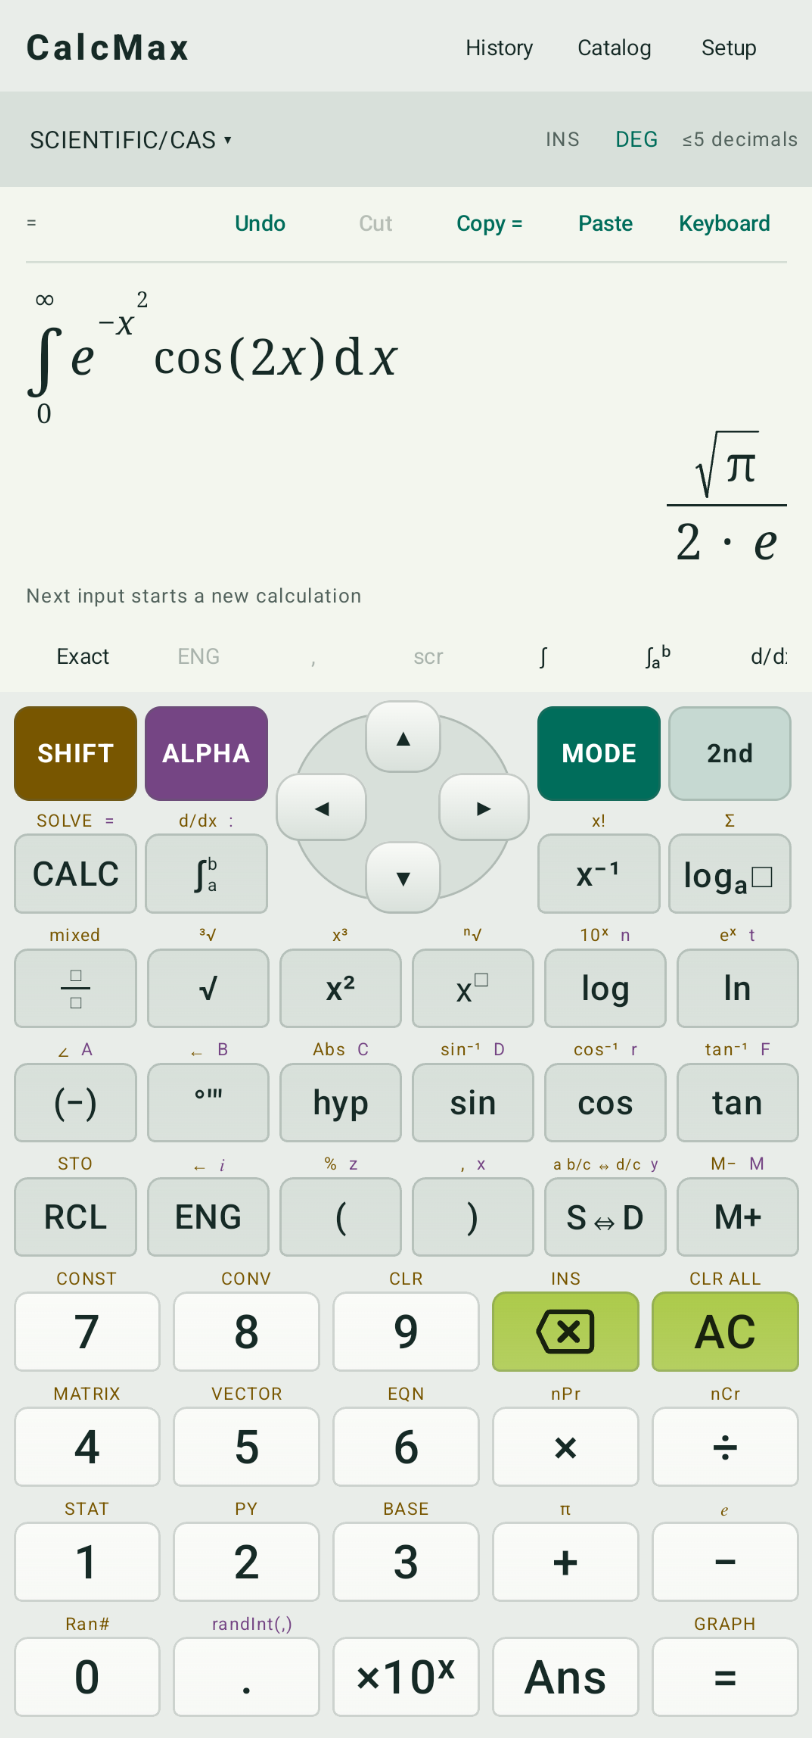
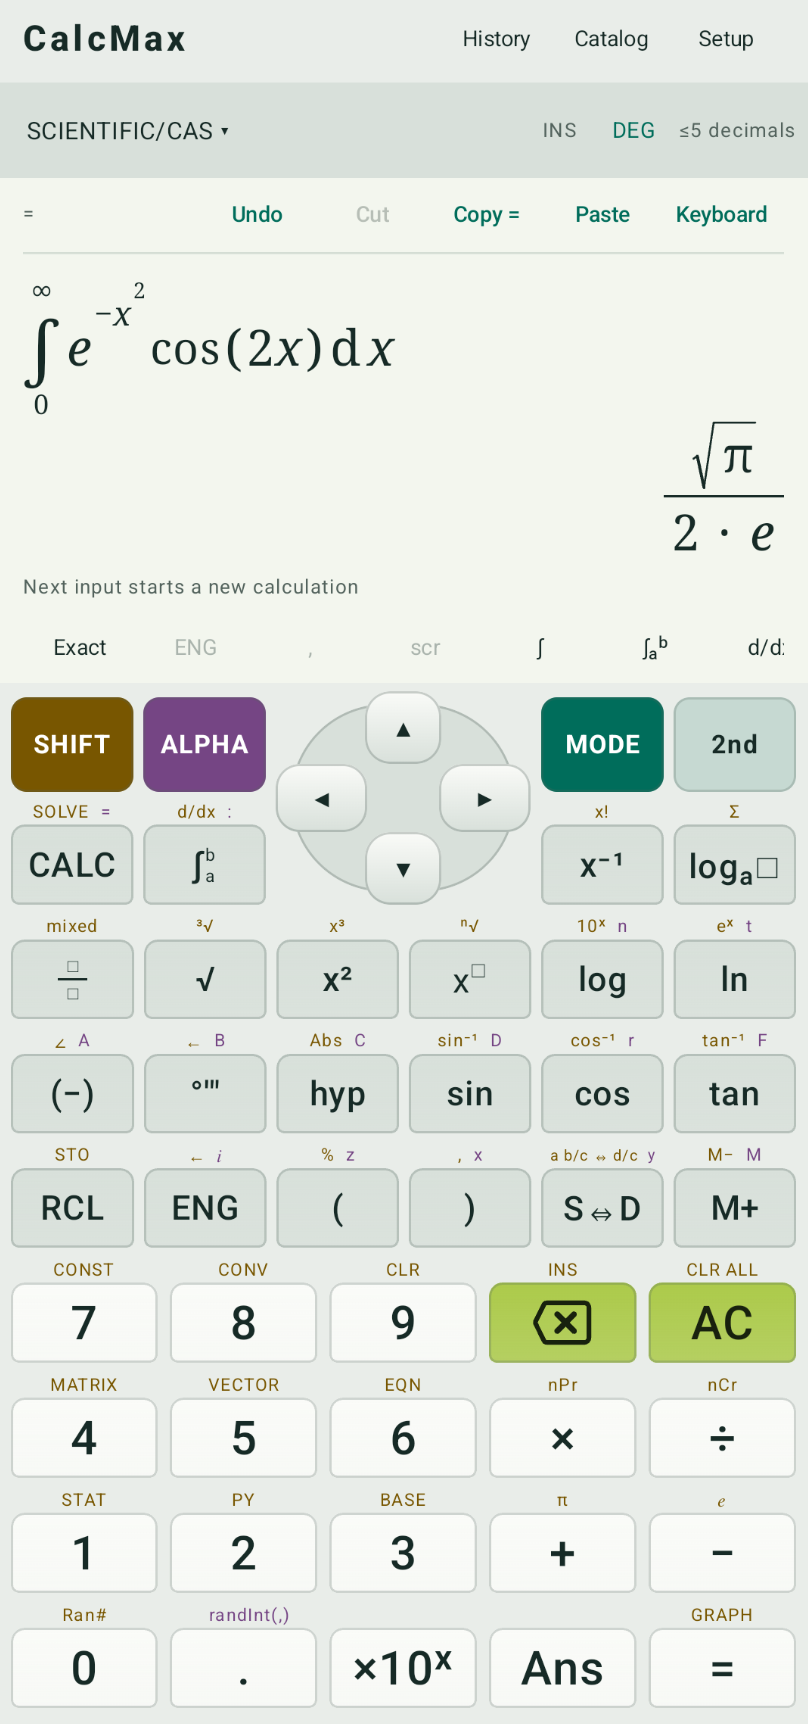
key fix

diff --git a/web/input-navigation.js b/web/input-navigation.js
@@ -1,4 +1,15 @@
 import {parse} from './parser.js';
+function emptyNodeDeletion(nodes,target){
+  const structuralOperand=nodes.some(node=>node.kind==='binary'&&
+    (node.value==='^'?node.args[0].start===target.start&&node.args[0].end===target.end:
+      (node.value==='*'||node.value==='/'&&node.displayOperator!=='÷')&&node.args.some(arg=>arg.start===target.start&&arg.end===target.end)));
+  return {start:target.start,end:target.end,text:structuralOperand?'()':''};
+}
+function tailDeletion(source,node){
+  const head=node.args[0],inner=head.args[0];
+  const keep=head.kind==='group'&&['number','symbol','call'].includes(inner?.kind)?inner:head;
+  return {start:node.start,end:node.end,text:source.slice(keep.start,keep.end),cursor:keep.end-keep.start};
+}
 // Remove an unused function template as a unit, including its hidden delimiters.
 export function emptyCallDeletion(source,start,end){
   if(start!==end)return null;
@@ -11,10 +22,35 @@ export function emptyCallDeletion(source,start,end){
     node.args.every((arg,index)=>empty(arg)||index===1&&variableTemplates.includes(node.value)&&arg.kind==='symbol'&&arg.value==='x'))
     .sort((a,b)=>(a.end-a.start)-(b.end-b.start))[0];
   if(!call)return null;
-  const structuralOperand=nodes.some(node=>node.kind==='binary'&&
-    (node.value==='^'?node.args[0].start===call.start&&node.args[0].end===call.end:
-      (node.value==='*'||node.value==='/'&&node.displayOperator!=='÷')&&node.args.some(arg=>arg.start===call.start&&arg.end===call.end)));
-  return {start:call.start,end:call.end,text:structuralOperand?'()':''};
+  return emptyNodeDeletion(nodes,call);
+}
+export function powerInput(source,start,end,suffix){
+  const before=source[start-1];
+  const emptyBase=!source.trim()||start===end&&(!before||'+-−×*÷/([,='.includes(before));
+  return emptyBase?{text:`()${suffix}`,cursor:1}:{text:suffix,cursor:suffix==='^()'?2:suffix.length};
+}
+export function emptyPowerDeletion(source,start,end){
+  if(start!==end)return null;
+  const nodes=[];
+  try{const visit=node=>{nodes.push(node);node.args.forEach(visit);};visit(parse(source,{allowHoles:true}));}catch{return null;}
+  const content=node=>node.kind==='group'?node.args[0]:node;
+  const power=nodes.filter(node=>node.kind==='binary'&&node.value==='^'&&
+    node.args.some(arg=>content(arg)?.kind==='hole'&&content(arg).start===start))
+    .sort((a,b)=>(a.end-a.start)-(b.end-b.start))[0];
+  if(!power)return null;
+  return content(power.args[0])?.kind==='hole'?emptyNodeDeletion(nodes,power):tailDeletion(source,power);
+}
+export function emptyFractionDeletion(source,start,end){
+  if(start!==end)return null;
+  const nodes=[];
+  try{const visit=node=>{nodes.push(node);node.args.forEach(visit);};visit(parse(source,{allowHoles:true}));}catch{return null;}
+  const content=node=>node.kind==='group'?node.args[0]:node;
+  const fraction=nodes.filter(node=>node.kind==='binary'&&node.value==='/'&&node.displayOperator!=='÷'&&
+    content(node.args[1])?.kind==='hole'&&(content(node.args[1]).start===start||
+      content(node.args[0])?.kind==='hole'&&content(node.args[0]).start===start))
+    .sort((a,b)=>(a.end-a.start)-(b.end-b.start))[0];
+  if(!fraction)return null;
+  return content(fraction.args[0])?.kind==='hole'?emptyNodeDeletion(nodes,fraction):tailDeletion(source,fraction);
 }
 export function fractionExit(source,start,end,direction,outside=null){
   if(direction!=='RIGHT'||start!==end)return null;

diff --git a/math/src/test/kotlin/com/kirinonakar/calcmax/math/StructuredEditorTest.kt b/math/src/test/kotlin/com/kirinonakar/calcmax/math/StructuredEditorTest.kt
@@ -2,6 +2,27 @@ package com.kirinonakar.calcmax.math
 import org.junit.Assert.*
 import org.junit.Test
 class StructuredEditorTest {
+    @Test fun deletingEmptyPowerAndFractionTemplatesRemovesTheWholeStructure() {
+        for(template in listOf("()^2","()^3","()^(-1)","()^()","()/()")) {
+            val editor=Editor(template,1)
+            assertEquals(template,"",editor.delete().source)
+            assertEquals(template,"",editor.deleteForward().source)
+            assertEquals(0,editor.delete().cursor)
+            val nested="sin($template)"
+            assertEquals("sin()",Editor(nested,5).delete().source)
+            assertEquals("1+",Editor("1+$template",3).delete().source)
+        }
+        assertEquals("",Editor("()^()",4).delete().source)
+        assertEquals("",Editor("()/()",4).delete().source)
+        assertEquals("2*()*3",Editor("2*()^2*3",3).delete().source)
+        assertEquals("3",Editor("3^()",3).delete().source)
+        assertEquals("3",Editor("(3)/()",5).delete().source)
+        assertEquals("(3+4)",Editor("(3+4)/()",7).delete().source)
+        val filled=Editor("()^2",1).insert("2")
+        assertEquals("(2)^2",filled.source)
+        assertEquals("()^2",filled.delete().source)
+        assertEquals("",filled.delete().delete().source)
+    }
     @Test fun deletingEmptyFunctionTemplatesRemovesTheWholeCall() {
         for(template in listOf("sin()","cos()","tan()","asin()","sinh()","sqrt()","cbrt()","log()","ln()",
             "log(,)","nthroot(,)","mixed(,,)","nPr(,)","det()","inverse()","transpose()","norm()",
@@ -120,7 +141,7 @@ class StructuredEditorTest {
         assertEquals("integrate(3,x,,)",denominator.deleteForward().source)
         assertEquals(denominator,denominator.move(1))
         val emptyNumerator=Editor(source,source.indexOf('(',10)+1)
-        assertEquals(emptyNumerator,emptyNumerator.delete())
+        assertEquals("integrate(,x,,)",emptyNumerator.delete().source)
         val filledDenominator=denominator.insert("4")
         val outsideFraction=filledDenominator.move(1)
         assertEquals("integrate((3)/(4)*5,x,,)",outsideFraction.insert("5").source)
@@ -174,7 +195,7 @@ class StructuredEditorTest {
         assertEquals(11,empty.cursor)
         assertEquals("integrate",empty.tree()?.value)
         assertEquals("^",empty.tree()?.args?.firstOrNull()?.value)
-        assertEquals(empty,empty.delete())
+        assertEquals("integrate(,x,,)",empty.delete().source)
         assertEquals(empty.source,Editor(source,source.indexOf('^')).deleteForward().source)
     }
     @Test fun filledIntegralPowerBoxMovesPastHiddenClosingParenthesis() {
@@ -222,7 +243,7 @@ class StructuredEditorTest {
         val power=empty.tree()!!.args[0]
         assertEquals("^",power.value)
         assertEquals("hole",power.args[0].args[0].kind)
-        assertEquals(empty,empty.delete())
+        assertEquals("integrate(,x,,)",empty.delete().source)
         assertEquals("integrate((3)^2,x,,)",empty.insert("3").source)
         val exponent=empty.move(1)
         assertEquals(empty.source.indexOf('2'),exponent.cursor)

diff --git a/math/src/main/kotlin/com/kirinonakar/calcmax/math/Editor.kt b/math/src/main/kotlin/com/kirinonakar/calcmax/math/Editor.kt
@@ -112,6 +112,16 @@ data class Editor(val source: String = "", val cursor: Int = source.length, val 
         val base=power.args[0]
         return if(base.kind=="group"&&base.args.firstOrNull()?.kind=="hole")this else remove(base.start,base.end)
     }
+    private fun emptyPowerAt(position:Int):Expr? = tree()?.nodes()?.filter {power->
+        if(power.kind!="binary" || power.value!="^")false else {
+            val base=power.args[0]
+            val baseHole=if(base.kind=="group")base.args.firstOrNull() else base
+            val exponent=power.args[1]
+            val exponentHole=if(exponent.kind=="group")exponent.args.firstOrNull() else exponent
+            baseHole?.kind=="hole" && (baseHole.start==position ||
+                exponentHole?.kind=="hole" && exponentHole.start==position)
+        }
+    }?.minByOrNull {it.end-it.start}
     private fun emptyExponentAt(position:Int):Expr? = tree()?.nodes()?.filter {power->
         if(power.kind!="binary" || power.value!="^")false else {
             val exponent=power.args[1]
@@ -131,6 +141,12 @@ data class Editor(val source: String = "", val cursor: Int = source.length, val 
             val denominator=node.args[1]
             val hole=if(denominator.kind=="group")denominator.args.firstOrNull() else denominator
             hole?.kind=="hole" && hole.start==position
+        }
+    }?.minByOrNull {it.end-it.start}
+    private fun emptyFractionAt(position:Int):Expr? = tree()?.nodes()?.filter {node->
+        if(!fraction(node))false else {
+            val holes=node.args.map {if(it.kind=="group")it.args.firstOrNull() else it}
+            holes.all {it?.kind=="hole"} && holes.any {it?.start==position}
         }
     }?.minByOrNull {it.end-it.start}
     private fun removeEmptyDenominator(fraction:Expr):Editor = removeTailKeepingHead(fraction.args[0],fraction.end)
@@ -170,6 +186,8 @@ data class Editor(val source: String = "", val cursor: Int = source.length, val 
             selectedDenominator(start,end)?.let{return removeEmptyDenominator(it)}
             return remove(start,end)
         }
+        emptyPowerAt(cursor)?.let{return remove(it.start,it.end)}
+        emptyFractionAt(cursor)?.let{return remove(it.start,it.end)}
         emptyCallAt(cursor)?.let{return remove(it.start,it.end)}
         fractionAfterDenominator(cursor)?.let {fraction->
             val denominator=fraction.args[1]
@@ -193,6 +211,8 @@ data class Editor(val source: String = "", val cursor: Int = source.length, val 
             selectedDenominator(start,end)?.let{return removeEmptyDenominator(it)}
             return remove(start,end)
         }
+        emptyPowerAt(cursor)?.let{return remove(it.start,it.end)}
+        emptyFractionAt(cursor)?.let{return remove(it.start,it.end)}
         emptyCallAt(cursor)?.let{return remove(it.start,it.end)}
         emptyExponentAt(cursor)?.let{return removeEmptyExponent(it)}
         emptyDenominatorAt(cursor)?.let{return removeEmptyDenominator(it)}

diff --git a/web/calculator.js b/web/calculator.js
@@ -6,7 +6,7 @@ import {calcVariables,calcBindings} from './calc-session.js';
 import {previousCalculations,renderPreviousCalculations,followTape} from './calculation-tape.js';
 import {renderFormulas} from './formula-preview.js';
 import {markInputCursor,followInputCursor,followTextCursor,inputPointPosition} from './input-cursor.js';
-import {moveMathCursor,fractionExit,emptyCallDeletion} from './input-navigation.js';
+import {moveMathCursor,fractionExit,emptyCallDeletion,emptyPowerDeletion,emptyFractionDeletion,powerInput} from './input-navigation.js';
 import {createDisplaySizing} from './display-sizing.js';
 import {fractionInput} from './fraction-input.js';
 import {requiresExplicitEvaluation} from './evaluation-policy.js';
@@ -243,9 +243,9 @@ export function createCalculator({state,engine,isBusy,ui,persist,schedulePersist
     else if(input==='INS')$('insert-mode').click();
     else if(input==='NEG'){if(committed){$('expression').value='';committed=false;}insert('-');}
     else if(input==='DEL'||input==='DELETE_FORWARD'){
-      const f=$('expression'),start=f.selectionStart,end=f.selectionEnd,call=emptyCallDeletion(f.value,start,end);
+      const f=$('expression'),start=f.selectionStart,end=f.selectionEnd,call=emptyPowerDeletion(f.value,start,end)||emptyFractionDeletion(f.value,start,end)||emptyCallDeletion(f.value,start,end);
       undoStack().push(f.value);
-      if(call){f.setRangeText(call.text,call.start,call.end,'end');const at=call.start+(call.text?1:0);f.setSelectionRange(at,at);}
+      if(call){f.setRangeText(call.text,call.start,call.end,'end');const at=call.start+(call.cursor??(call.text?1:0));f.setSelectionRange(at,at);}
       else f.setRangeText('',start===end&&input==='DEL'?Math.max(0,start-1):start,start===end&&input==='DELETE_FORWARD'?Math.min(f.value.length,end+1):end,'end');
       committed=false;preview();
     }
@@ -277,6 +277,11 @@ export function createCalculator({state,engine,isBusy,ui,persist,schedulePersist
     else if(input==='RANDOM')insert(String(Math.random()));
     else if(input==='RELATION')insert('=');
     else if(input==='()/()')insert(input,null,{factor:true,fraction:true});
+    else if(['^2','^3','^()','^(-1)'].includes(input)){
+      const field=$('expression'),source=committed?(lastResult?.assignment?'':'Ans'):field.value;
+      const start=committed?source.length:field.selectionStart,end=committed?source.length:field.selectionEnd;
+      const template=powerInput(source,start,end,input);insert(template.text,template.cursor,{factor:true});
+    }
     else if(input==='*10^()'){const field=$('expression'),before=field.value.slice(0,field.selectionStart).trimEnd(),text=!committed&&/[\p{L}\p{N}_.)\]}!%°′″]$/u.test(before)?input:'1'+input;insert(text,text.indexOf('(')+1,{factor:true});}
     else {
       // Parenthesis templates place the cursor in their first empty argument.

diff --git a/app/src/androidTest/java/com/kirinonakar/calcmax/CalculatorInstrumentedTest.kt b/app/src/androidTest/java/com/kirinonakar/calcmax/CalculatorInstrumentedTest.kt
@@ -39,7 +39,7 @@ class CalculatorInstrumentedTest {
     }
     @Test fun delRemovesUntouchedFunctionKeysIncludingCalculusTemplates() {
         compose.runOnIdle {model().mode="Scientific/CAS";model().poweredOn=true;model().secondKeys=false;model().shift=false;model().alpha=false;model().clear()}
-        for(key in listOf("sin","cos","tan","√","log","ln","∫","logₐ□")) {
+        for(key in listOf("sin","cos","tan","√","log","ln","∫","logₐ□","x²","x⁻¹","x□","a/b")) {
             compose.onNodeWithContentDescription(key).performClick()
             compose.onNodeWithContentDescription("DEL").performClick()
             compose.runOnIdle {assertEquals(key,"",model().editor.source);assertEquals(0,model().editor.cursor)}

diff --git a/web/assets.js b/web/assets.js
@@ -1,4 +1,4 @@
-self.CALCMAX_CACHE = 'calcmax-static-30fc264b637b8efb';
+self.CALCMAX_CACHE = 'calcmax-static-364354a155c30dc9';
 self.CALCMAX_ASSETS = [
   "./",
   "./app-dialogs.js",
